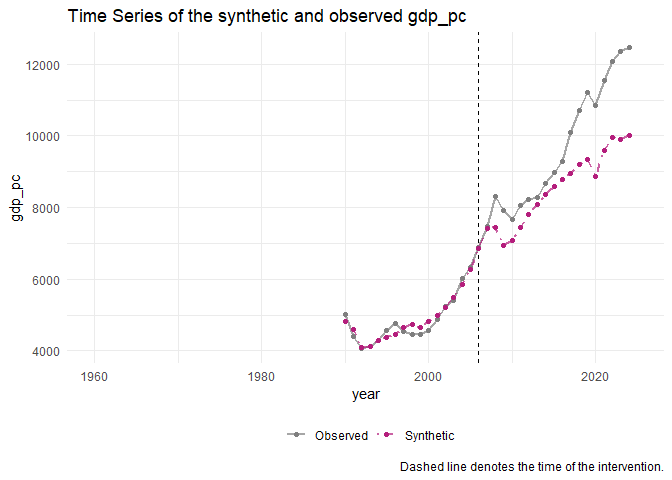
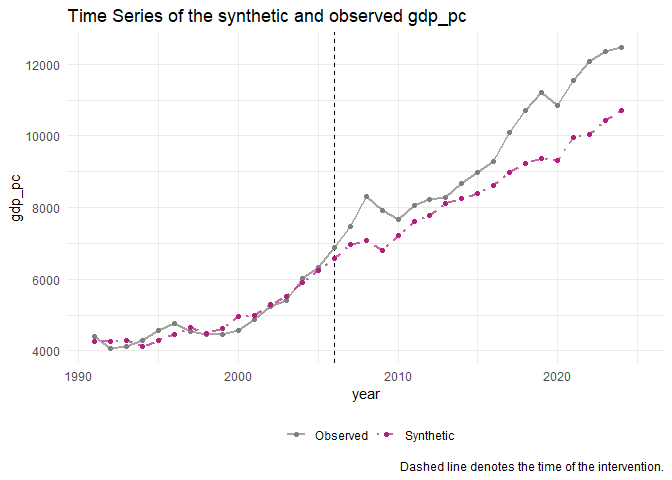
cahnges

diff --git a/romania_synth.md b/romania_synth.md
@@ -34,17 +34,17 @@ contribute a bit.
     ## # A tibble: 11 × 4
     ##    variable          Romania synthetic_Romania donor_sample
     ##    <chr>               <dbl>             <dbl>        <dbl>
-    ##  1 avg_agri           14.7               9.72         3.79 
-    ##  2 avg_cap_form       23.6              22.9         23.9  
-    ##  3 avg_gdp          4938.             4967.       27776.   
-    ##  4 avg_gov_consump    14.4              17.6         18.8  
-    ##  5 avg_imports        31.2              30.5         38.8  
-    ##  6 avg_industry       35.3              28.1         26.7  
-    ##  7 avg_lab_produc  42098.            30843.       83677.   
-    ##  8 avg_pop_growth     -0.566             0.819        0.555
-    ##  9 avg_xports         24.4              25.0         38.8  
-    ## 10 lag5_gdp         5974.             5936.       31589.   
-    ## 11 lag1_gdp         6877.             6859.       33350.
+    ##  1 avg_agri           14.7              12.4           9.60
+    ##  2 avg_cap_form       23.6              26.3          25.4 
+    ##  3 avg_gdp          4938.             4941.         5548.  
+    ##  4 avg_gov_consump    14.4              14.4          14.0 
+    ##  5 avg_imports        31.2              32.7          33.8 
+    ##  6 avg_industry       35.3              34.8          31.9 
+    ##  7 avg_lab_produc  42098.            34943.        34623.  
+    ##  8 avg_pop_growth     -0.566             0.462         1.30
+    ##  9 avg_xports         24.4              33.8          33.3 
+    ## 10 lag5_gdp         5974.             5916.         6326.  
+    ## 11 lag1_gdp         6877.             6590.         6959.
 
 The algorithm’s done a good job - mostly - in creating a synthetic
 Romania. Average GDP, exports and imports are especially similar. The
